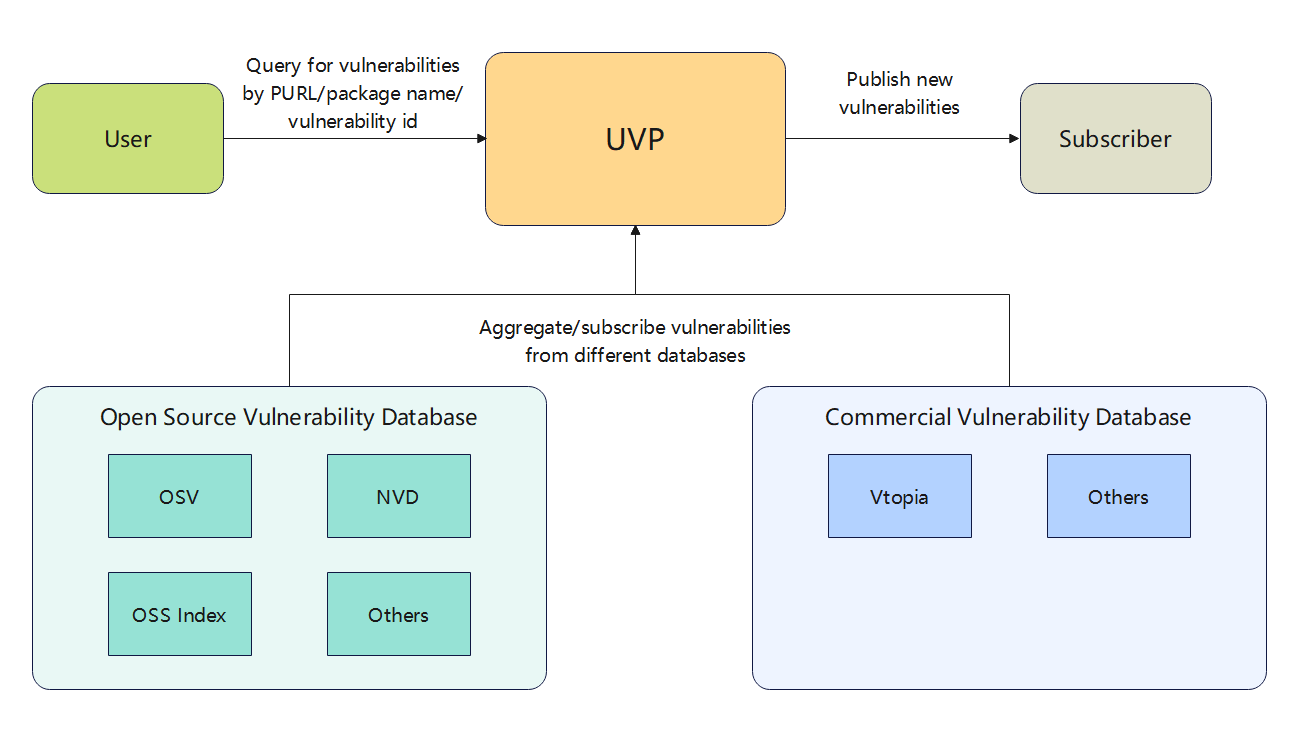
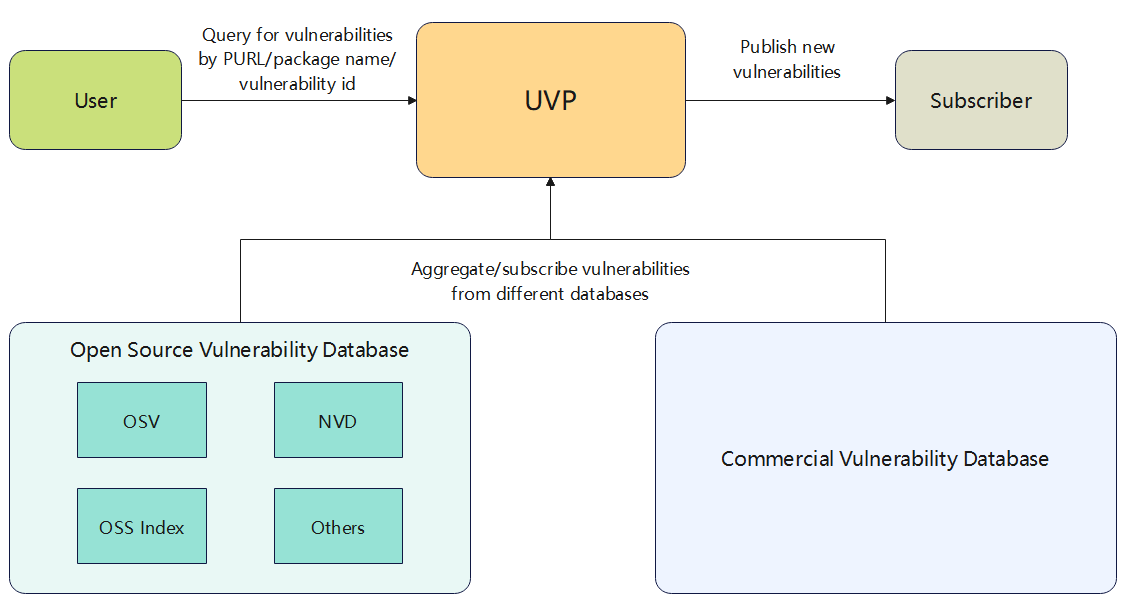
Doc: update images (#46)

diff --git a/README.md b/README.md
@@ -41,8 +41,6 @@ Additionally, with heuristic policies, UVP tries to avoid false positives and fa
 
 * [Vtopia](http://www.vulab.com.cn/vtopia.html)
   (**note:** only vulnerabilities affecting [openEuler](https://www.openeuler.org) packages)
-* [7-cai](https://www.7-cai.com)
-  (**note:** only vulnerabilities affecting [OpenHarmony](https://www.openharmony.cn) packages)
 
 # Using UVP
 
